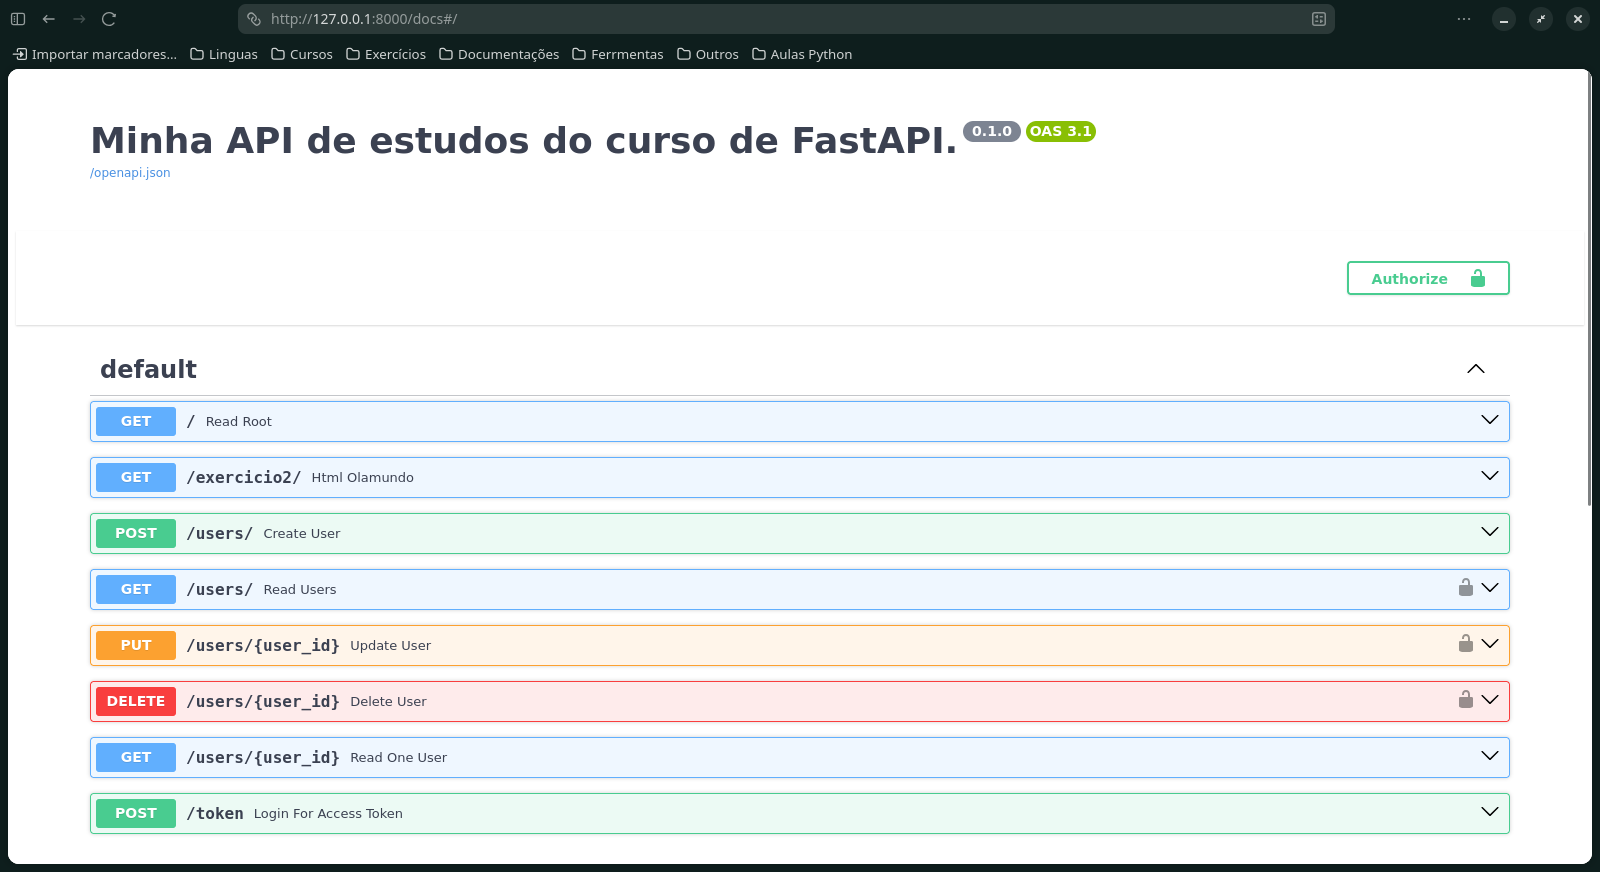
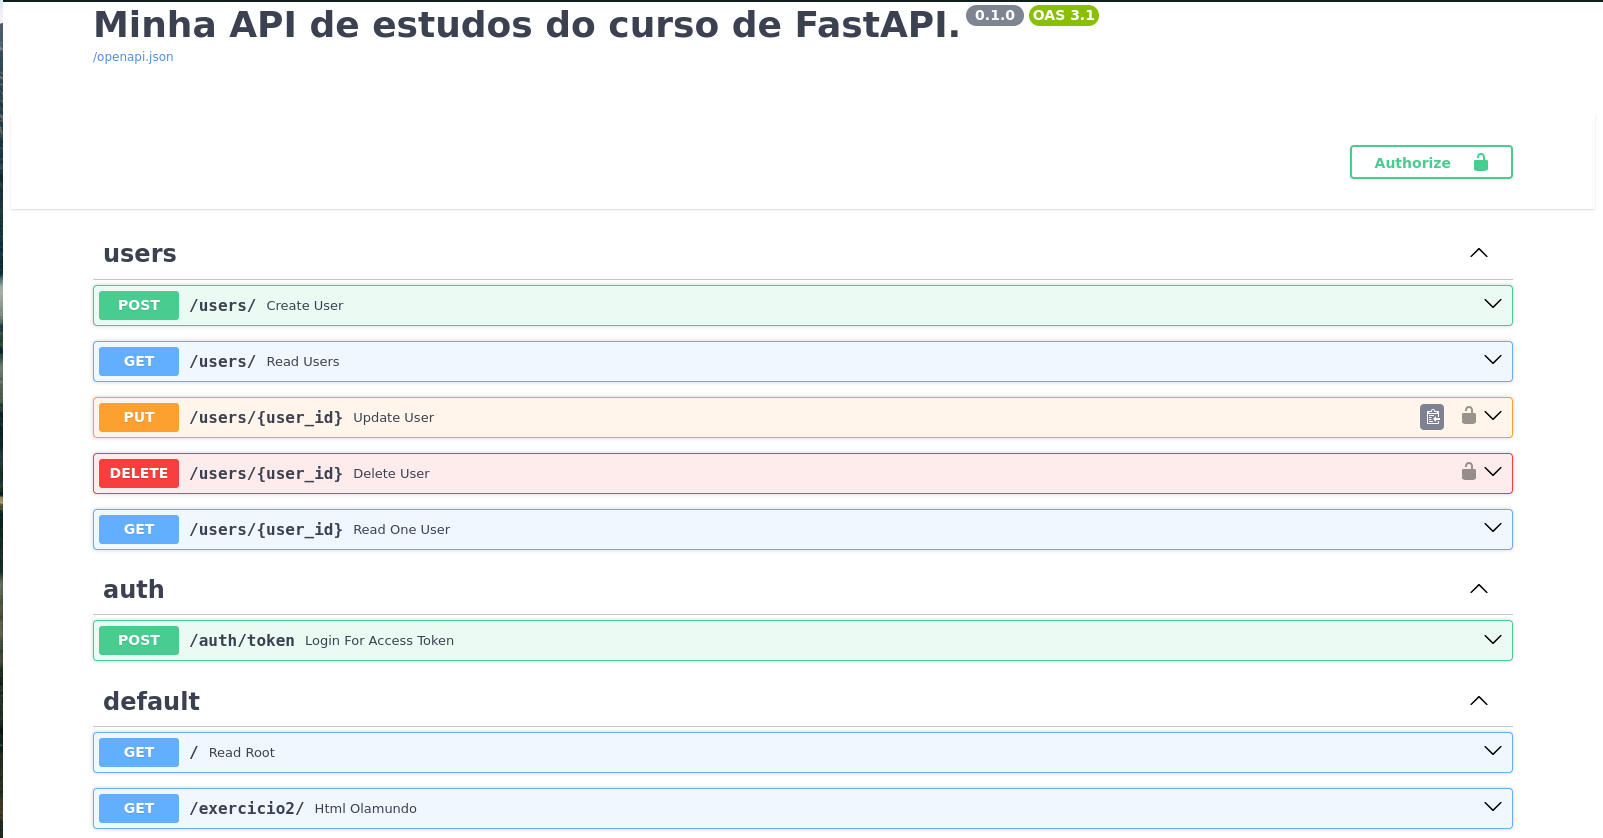
Implementando o refresh do token e testes de autorização

diff --git a/tests/test_auth.py b/tests/test_auth.py
@@ -1,0 +1,97 @@
+from http import HTTPStatus
+
+from freezegun import freeze_time
+
+
+def test_get_token(client, user):
+    response = client.post(
+        '/auth/token',
+        data={'username': user.email, 'password': user.clean_password},
+    )
+
+    token = response.json()
+
+    assert response.status_code == HTTPStatus.OK
+    assert 'access_token' in token
+    assert 'token_type' in token
+
+
+def test_token_expired_after_time(client, user):
+    with freeze_time('2025-02-10 12:00:00'):
+        response = client.post(
+            '/auth/token',
+            data={'username': user.email, 'password': user.clean_password},
+        )
+        assert response.status_code == HTTPStatus.OK
+        token = response.json()['access_token']
+
+    with freeze_time('2025-02-10 12:31:00'):
+        response = client.put(
+            f'/users/{user.id}',
+            headers={'Authorization': f'Bearer {token}'},
+            json={
+                'username': 'wrongwrong',
+                'email': 'wrong@wrong.com',
+                'password': 'wrong',
+            },
+        )
+
+        assert response.status_code == HTTPStatus.UNAUTHORIZED
+        assert response.json() == {'detail': 'Could not validate credentials'}
+
+
+def test_toke_inexistent_user(client, user):
+    response = client.post(
+        '/auth/token',
+        data={'username': 'no_user@no_domain.com', 'password': 'testtest'},
+    )
+
+    assert response.status_code == HTTPStatus.UNAUTHORIZED
+    assert response.json() == {'detail': 'Incorrect email or password'}
+
+
+def test_token_wrong_password(client, user):
+    response = client.post(
+        '/auth/token',
+        data={'username': user.email, 'password': 'wrongpassword'},
+    )
+
+    assert response.status_code == HTTPStatus.UNAUTHORIZED
+    assert response.json() == {'detail': 'Incorrect email or password'}
+
+
+def test_refresh_token(client, token):
+    response = client.post(
+        '/auth/refresh_token', headers={'Authorization': f'Bearer {token}'}
+    )
+
+    data = response.json()
+
+    assert response.status_code == HTTPStatus.OK
+    assert 'access_token' in data
+    assert 'token_type' in data
+    assert data['token_type'] == 'Bearer'
+
+
+def test_token_expired_dont_refresh(client, user):
+    with freeze_time('2025-02-10 12:00:00'):
+        response = client.post(
+            '/auth/token',
+            data={'username': user.email, 'password': user.clean_password},
+        )
+        assert response.status_code == HTTPStatus.OK
+        token = response.json()['access_token']
+
+    with freeze_time('2025-02-10 12:31:00'):
+        response = client.put(
+            f'/users/{user.id}',
+            headers={'Authorization': f'Bearer {token}'},
+            json={
+                'username': 'wrongwrong',
+                'email': 'wrong@wrong.com',
+                'password': 'wrong',
+            },
+        )
+
+        assert response.status_code == HTTPStatus.UNAUTHORIZED
+        assert response.json() == {'detail': 'Could not validate credentials'}

diff --git a/tests/test_users.py b/tests/test_users.py
@@ -76,21 +76,13 @@ def test_update_user(client, user, token):
     }
 
 
-def test_update_integrity_error(client, user, token):
-    client.post(
-        '/users/',
-        json={
-            'username': 'bob',
-            'email': 'bob@example.com',
-            'password': 'mynewpassword',
-        },
-    )
+def test_update_integrity_error(client, user, other_user, token):
 
     response = client.put(
         f'/users/{user.id}',
         headers={'Authorization': f'Bearer {token}'},
         json={
-            'username': 'bob',
+            'username': other_user.username,
             'email': user.email,
             'password': 'mynewpassword',
         },
@@ -125,3 +117,26 @@ def test_read_one_user_should_return_not_found__exercicio3(client, user):
 
     assert response.status_code == HTTPStatus.NOT_FOUND
     assert response.json() == {'detail': 'User not found'}
+
+
+def test_update_user_with_wrong_user(client, other_user, token):
+    response = client.put(
+        f'/users/{other_user.id}',
+        headers={'Authorization': f'Bearer {token}'},
+        json={
+            'username': 'Bob',
+            'email': 'bob@example.com',
+            'password': 'mynewpassword',
+        },
+    )
+    assert response.status_code == HTTPStatus.FORBIDDEN
+    assert response.json() == {'detail': 'Not enough permissions'}
+
+
+def test_delete_user_with_wrong_user(client, other_user, token):
+    response = client.delete(
+        f'/users/{other_user.id}', headers={'Authorization': f'Bearer {token}'}
+    )
+
+    assert response.status_code == HTTPStatus.FORBIDDEN
+    assert response.json() == {'detail': 'Not enough permissions'}

diff --git a/fast_zero/routers/auth.py b/fast_zero/routers/auth.py
@@ -9,11 +9,16 @@ from sqlalchemy.ext.asyncio import AsyncSession
 from fast_zero.database import get_session
 from fast_zero.models import User
 from fast_zero.schemas import Token
-from fast_zero.security import creat_access_token, verify_password
+from fast_zero.security import (
+    creat_access_token,
+    get_current_user,
+    verify_password,
+)
 
 router = APIRouter(prefix='/auth', tags=['auth'])
 OAuth2PasswordRequestForm = Annotated[OAuth2PasswordRequestForm, Depends()]
 Session = Annotated[AsyncSession, Depends(get_session)]
+CurrentUser = Annotated[User, Depends(get_current_user)]
 
 
 @router.post('/token', response_model=Token)
@@ -28,14 +33,21 @@ async def login_for_access_token(
     if not user:
         raise HTTPException(
             status_code=HTTPStatus.UNAUTHORIZED,
-            detail='Incorrect email or password.',
+            detail='Incorrect email or password',
         )
     if not verify_password(form_data.password, user.password):
         raise HTTPException(
             status_code=HTTPStatus.UNAUTHORIZED,
-            detail='Incorrect email or password.',
+            detail='Incorrect email or password',
         )
 
     access_token = creat_access_token(data={'sub': user.email})
 
     return {'access_token': access_token, 'token_type': 'bearer'}
+
+
+@router.post('/refresh_token', response_model=Token)
+async def get_refresh_token(user: CurrentUser):
+    new_access_toke = creat_access_token(data={'sub': user.email})
+
+    return {'access_token': new_access_toke, 'token_type': 'Bearer'}

diff --git a/tests/conftest.py b/tests/conftest.py
@@ -1,6 +1,7 @@
 from contextlib import contextmanager
 from datetime import datetime
 
+import factory
 import pytest
 import pytest_asyncio
 from fastapi.testclient import TestClient
@@ -12,6 +13,15 @@ from fast_zero.app import app
 from fast_zero.database import get_session
 from fast_zero.models import User, table_registry
 from fast_zero.security import Settings, get_password_hash
+
+
+class UserFactory(factory.Factory):
+    class Meta:
+        model = User
+
+    username = factory.Sequence(lambda n: f'test{n}')
+    email = factory.LazyAttribute(lambda obj: f'{obj.username}@test.com')
+    password = factory.LazyAttribute(lambda obj: f'{obj.username}sm9ASDM9f#$')
 
 
 # fixture para fazer o arrange dos testes abrindo o cliente de teste
@@ -86,11 +96,21 @@ def mock_db_time():
 @pytest_asyncio.fixture
 async def user(session: AsyncSession):
     password = 'testtest'
-    user = User(
-        username='Teste',
-        password=get_password_hash(password),
-        email='teste@test.com',
-    )
+    user = UserFactory(password=get_password_hash(password))
+
+    user.clean_password = password
+
+    session.add(user)
+    await session.commit()
+    await session.refresh(user)
+
+    return user
+
+
+@pytest_asyncio.fixture
+async def other_user(session: AsyncSession):
+    password = 'testtest'
+    user = UserFactory(password=get_password_hash(password))
 
     user.clean_password = password
 

diff --git a/fast_zero/security.py b/fast_zero/security.py
@@ -4,7 +4,7 @@ from zoneinfo import ZoneInfo
 
 from fastapi import Depends, HTTPException
 from fastapi.security import OAuth2PasswordBearer
-from jwt import DecodeError, decode, encode
+from jwt import DecodeError, ExpiredSignatureError, decode, encode
 from pwdlib import PasswordHash
 from sqlalchemy import select
 from sqlalchemy.ext.asyncio import AsyncSession
@@ -39,7 +39,9 @@ def creat_access_token(data: dict):
     return encode_jwt
 
 
-oauth2_scheme = OAuth2PasswordBearer(tokenUrl='auth/token')
+oauth2_scheme = OAuth2PasswordBearer(
+    tokenUrl='auth/token', refreshUrl='auth/refresh'
+)
 
 
 async def get_current_user(
@@ -62,6 +64,9 @@ async def get_current_user(
             raise credentials_exception
 
     except DecodeError:
+        raise credentials_exception
+
+    except ExpiredSignatureError:
         raise credentials_exception
 
     user = await session.scalar(

diff --git a/fast_zero/routers/users.py b/fast_zero/routers/users.py
@@ -78,7 +78,7 @@ async def update_user(
     session: Session,
     current_user: CurrentUser,
 ):
-    if not current_user:
+    if current_user.id != user_id:
         raise HTTPException(
             status_code=HTTPStatus.FORBIDDEN, detail='Not enough permissions'
         )
@@ -107,7 +107,7 @@ async def delete_user(
     session: Session,
     current_user: CurrentUser,
 ):
-    if not current_user:
+    if current_user.id != user_id:
         raise HTTPException(
             status_code=HTTPStatus.FORBIDDEN, detail='Not enough permissions'
         )

diff --git a/fast_zero/database.py b/fast_zero/database.py
@@ -7,6 +7,6 @@ settings = Settings()
 engine = create_async_engine(settings.DATABASE_URL)
 
 
-async def get_session():
+async def get_session():  # pragma: no cover
     async with AsyncSession(engine, expire_on_commit=False) as session:
         yield session

diff --git a/README.md b/README.md
@@ -5,6 +5,7 @@ Este projeto é uma API de gerenciamento de tarefas (Todo List) desenvolvida dur
 ---
 
 ## 🚧 Progresso do Projeto
+
 **Status:** Em desenvolvimento (Aula 3 de 14) 🚀
 
 - [x] Aula 01: Configuração do ambiente.
@@ -14,7 +15,7 @@ Este projeto é uma API de gerenciamento de tarefas (Todo List) desenvolvida dur
 - [x] Aula 05: Integrando o banco de dados à API
 - [x] Aula 06: Autenticação e Autorização com JWT
 - [x] Aula 07: Refatorando a estrutura do projeto
-- [ ] Aula 08: Tornando o projeto assíncrono
+- [x] Aula 08: Tornando o projeto assíncrono
 - [ ] Aula 09: Tornando o sistema de autenticação robusto
 - [ ] Aula 10: Criando rotas CRUD para gerenciamento de tarefas
 - [ ] Aula 11: Dockerizando a nossa aplicação e introduzindo o PostgreSQL
@@ -27,35 +28,37 @@ Este projeto é uma API de gerenciamento de tarefas (Todo List) desenvolvida dur
 
 O projeto utiliza o que há de mais moderno no ecossistema Python (versões 2025):
 
-* **Python 3.12+**
-* **FastAPI** (v0.115+): Framework moderno de alta performance.
-* **Pydantic** (v2.0+): Validação de dados e schemas.
-* **SQLAlchemy** (v2.0+): ORM para persistência de dados.
-* **Alembic**: Gerenciamento de migrações.
-* **Pytest**: Testes automatizados.
-* **Docker**: Conteinerização.
+- **Python 3.12+**
+- **FastAPI** (v0.115+): Framework moderno de alta performance.
+- **Pydantic** (v2.0+): Validação de dados e schemas.
+- **SQLAlchemy** (v2.0+): ORM para persistência de dados.
+- **Alembic**: Gerenciamento de migrações.
+- **Pytest**: Testes automatizados.
+- **Docker**: Conteinerização.
 
 ## 🛠 Funcionalidades (Previstas e Implementadas)
 
-* **CRUD de Usuários**: Cadastro, atualização e exclusão (Implementando).
-* **Autenticação JWT**: Sistema de login seguro.
-* **Gerenciador de Tarefas**: CRUD completo de tarefas vinculadas.
-* **Assincronismo**: Operações escaláveis com `async/await`.
-* **CI/CD**: Integração contínua via GitHub Actions.
+- **CRUD de Usuários**: Cadastro, atualização e exclusão (Implementando).
+- **Autenticação JWT**: Sistema de login seguro.
+- **Gerenciador de Tarefas**: CRUD completo de tarefas vinculadas.
+- **Assincronismo**: Operações escaláveis com `async/await`.
+- **CI/CD**: Integração contínua via GitHub Actions.
 
 ## 🔧 Como Executar (Ambiente de Desenvolvimento)
 
 ### 1. Clone o repositório
+
 ```bash
 git clone https://github.com/CaioVHilario/fast_zero.git
 cd fast_zero
 ```
+
 ### 2. Instalar o Poetry (se ainda não tiver)
 
 ```bash
 pipx install poetry==2.2
 pipx inject poetry poetry-plugin-shell
-``` 
+```
 
 Verificar instalação
 
@@ -81,6 +84,7 @@ poetry shell
 ```bash
 task run
 ```
+
 #### Acesse a documentação interativa em: [http://127.0.0.1:8000/docs](http://127.0.0.1:8000/docs)
 
 ![alt text](assets/Docs_fast_zero.png)
@@ -100,10 +104,9 @@ task test
 ```
 
 ### 📚 Créditos e Referências
+
 Este projeto é baseado no curso gratuito de FastAPI do Zero da [Live de Python](https://github.com/dunossauro/fastapi-do-zero).
 
 Licença do Material: Creative Commons BY-NC-SA.
 
 Desenvolvido por Caio Vieira Hilário
-
-
